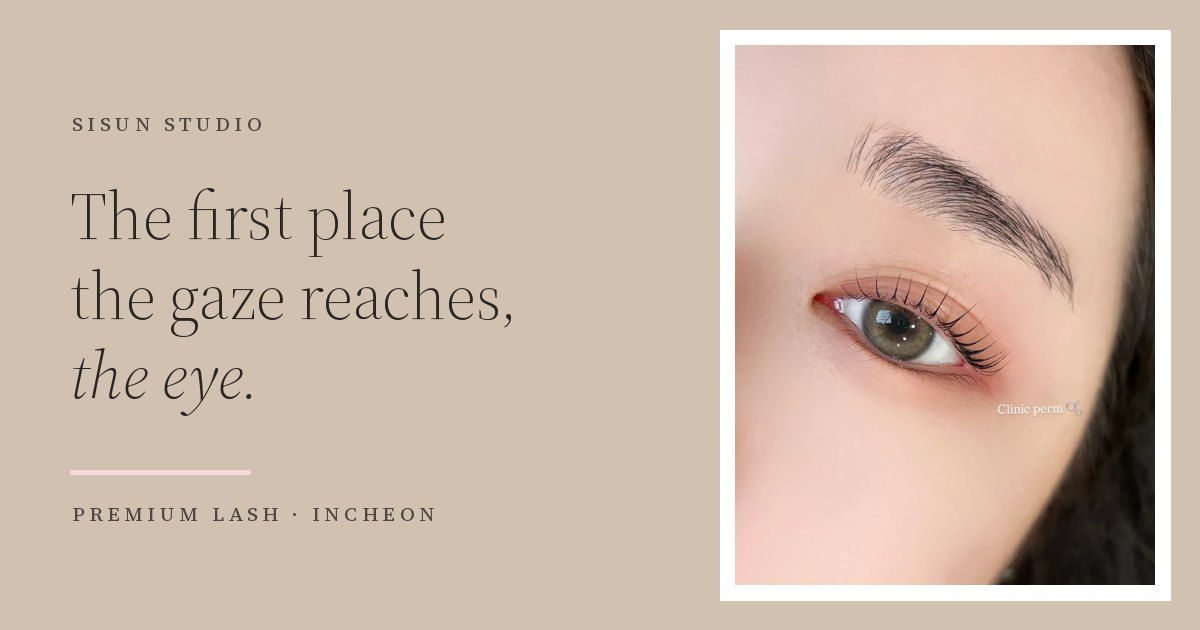
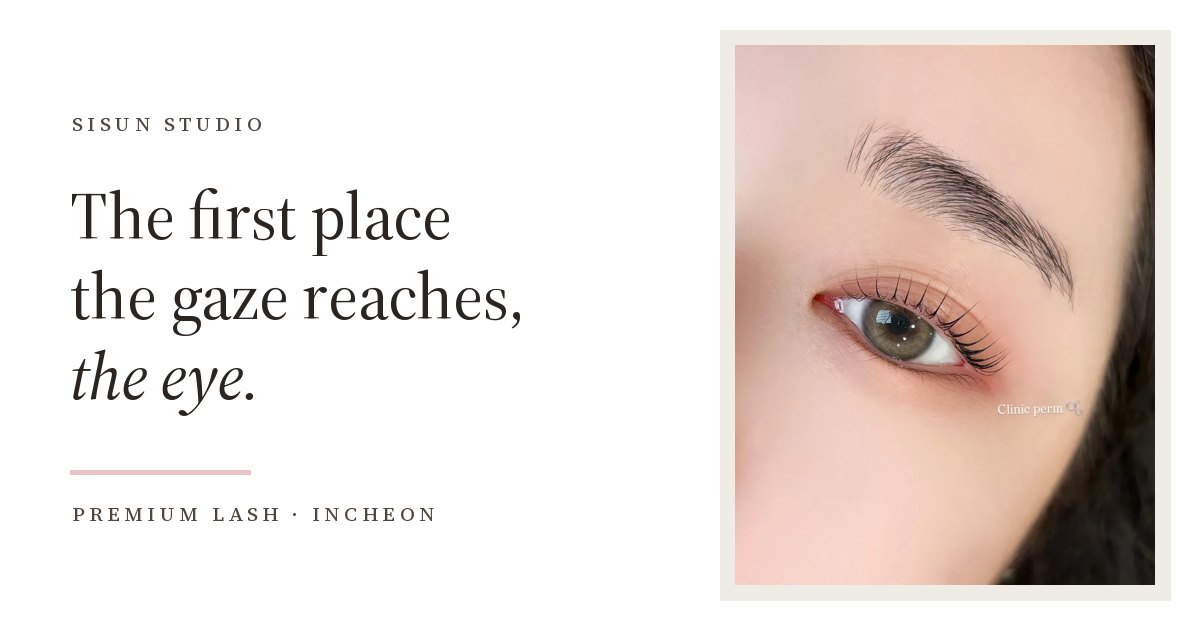
Add files via upload

diff --git a/index.html b/index.html
@@ -5,7 +5,7 @@
 <meta name="viewport" content="width=device-width, initial-scale=1.0" />
 <title>SISUN STUDIO 시선스튜디오 | Premium Lash Studio · 인천 구월동 속눈썹</title>
 <meta name="description" content="Premium lash studio in Guwol-dong, Incheon. 인천 구월동 속눈썹 전문 시선스튜디오. 눈매 맞춤 퍼스널 속눈썹연장·속눈썹펌·눈썹문신. 모근보호기법, KC 인증 글루, 프라이빗 시술룸." />
-<meta name="theme-color" content="#D1C1B1" />
+<meta name="theme-color" content="#FFFFFF" />
 
 <link rel="canonical" href="https://sisunstudio-sample.lgt3232.workers.dev/" />
 <meta property="og:type" content="website" />
@@ -60,7 +60,7 @@
    규칙 ① 그림자 없음, 1px 선과 여백 ② 모서리 0 ③ 왼쪽 색 띠 박스 금지
    ============================================================ */
 :root{
-  --mist:#E6DFD5;         /* 기본 지면 */
+  --mist:#EFEBE5;         /* v0.3 연한 베이지 그레이 (흰 바탕에 섞는 면) */
   --sand:#D1C1B1;         /* 다올 지정 색 1 */
   --stone:#C8C2B2;        /* 다올 지정 색 2 */
   --white:#FFFFFF;
@@ -80,7 +80,7 @@
 html{ -webkit-text-size-adjust:100%; }
 html, body{ max-width:100%; overflow-x:hidden; }
 @supports (overflow:clip){ html, body{ overflow-x:clip; } }
-body{ margin:0; font-family:var(--ko); color:var(--ink); background:var(--mist); line-height:1.75; letter-spacing:-.005em; -webkit-font-smoothing:antialiased; word-break:keep-all; }
+body{ margin:0; font-family:var(--ko); color:var(--ink); background:var(--white); line-height:1.75; letter-spacing:-.005em; -webkit-font-smoothing:antialiased; word-break:keep-all; }
 body.lock{ overflow:hidden; }
 img{ max-width:100%; height:auto; display:block; }
 a{ color:inherit; text-decoration:none; }
@@ -107,7 +107,7 @@ h1,h2,h3,h4{ margin:0; font-weight:400; }
 /* ---------- 버튼 ---------- */
 .btn{ display:inline-flex; align-items:center; justify-content:center; gap:10px; padding:1em 1.6em; font-family:var(--serif); font-weight:500; font-size:.76rem; letter-spacing:.24em; text-transform:uppercase; border:1px solid var(--ink); background:transparent; cursor:pointer; transition:background .25s ease, color .25s ease, border-color .25s ease; }
 .btn small{ font-family:var(--ko); font-size:.8rem; letter-spacing:0; text-transform:none; font-weight:500; }
-.btn.dark{ background:var(--ink); color:var(--mist); }
+.btn.dark{ background:var(--ink); color:var(--white); }
 .btn.white{ background:var(--white); border-color:var(--white); }
 .btn.pink{ background:var(--pink); border-color:var(--pink); }
 @media (hover:hover){
@@ -117,7 +117,7 @@ h1,h2,h3,h4{ margin:0; font-weight:400; }
 .btns{ display:flex; flex-wrap:wrap; gap:10px; }
 
 /* ---------- 헤더 ---------- */
-.site-head{ position:sticky; top:0; z-index:50; background:rgba(230,223,213,.94); border-bottom:1px solid var(--line); }
+.site-head{ position:sticky; top:0; z-index:50; background:rgba(255,255,255,.94); border-bottom:1px solid var(--line); }
 .site-head .wrap{ display:flex; align-items:center; justify-content:space-between; gap:14px; height:68px; }
 .mark{ font-family:var(--disp); font-weight:500; font-size:1.05rem; letter-spacing:.42em; }
 .nav{ display:flex; align-items:center; gap:clamp(16px,2.4vw,32px); }
@@ -135,7 +135,7 @@ h1,h2,h3,h4{ margin:0; font-weight:400; }
 .hero .ko-line{ margin:22px 0 0; font-size:1.02rem; font-weight:500; }
 .hero .lead{ margin:10px 0 0; max-width:32em; color:var(--soft); font-size:.96rem; }
 .hero .btns{ margin-top:30px; }
-.frame{ position:relative; background:var(--white); padding:14px 14px 54px; }
+.frame{ position:relative; background:var(--mist); padding:14px 14px 54px; }
 .frame .ph{ overflow:hidden; aspect-ratio:4/5; background:var(--sand); }
 .frame .ph img{ width:100%; height:100%; object-fit:cover; transform:scale(1.06); transition:transform 2.4s cubic-bezier(.2,.6,.2,1); }
 .frame.in .ph img{ transform:scale(1); }
@@ -148,6 +148,7 @@ h1,h2,h3,h4{ margin:0; font-weight:400; }
 .sec.sand{ background:var(--sand); }
 .sec.stone{ background:var(--stone); }
 .sec.white{ background:var(--white); }
+.sec.mist{ background:var(--mist); }
 .head{ display:grid; gap:14px; margin-bottom:clamp(36px,5vw,64px); }
 .head .caps{ color:var(--soft); }
 .head h2{ font-family:var(--disp); font-weight:450; font-size:clamp(2.3rem,6vw,4.2rem); line-height:1.05; letter-spacing:-.015em; }
@@ -161,6 +162,7 @@ h1,h2,h3,h4{ margin:0; font-weight:400; }
 .manifesto blockquote small{ display:block; margin-top:18px; font-family:var(--ko); font-size:.92rem; color:var(--soft); line-height:1.8; }
 .trio{ display:flex; gap:clamp(18px,4vw,48px); margin-top:30px; flex-wrap:wrap; }
 .trio span{ font-family:var(--disp); font-style:italic; font-size:1.25rem; border-bottom:1px solid var(--pink-2); padding-bottom:2px; }
+.trio .ko-s{ font-style:normal; }   /* 한글 가짜 이탤릭 방지 */
 .vows{ list-style:none; margin:0; padding:0; border-top:1px solid var(--line); }
 .vows li{ display:grid; grid-template-columns:52px 1fr; padding:18px 0; border-bottom:1px solid var(--line); }
 .vows .n{ font-family:var(--disp); font-style:italic; font-size:1.1rem; color:var(--soft); }
@@ -169,7 +171,8 @@ h1,h2,h3,h4{ margin:0; font-weight:400; }
 
 /* ---------- 메뉴 (가격) ---------- */
 .menu{ display:grid; gap:clamp(40px,6vw,80px); }
-.list{ background:var(--white); padding:clamp(22px,3.6vw,38px); }
+.list{ background:var(--mist); padding:clamp(22px,3.6vw,38px); }
+#brow .list{ background:var(--white); }
 .list h3{ display:flex; justify-content:space-between; align-items:baseline; gap:12px; padding-bottom:14px; border-bottom:1px solid var(--pink-2); font-family:var(--disp); font-weight:450; font-size:clamp(1.6rem,3.4vw,2.2rem); }
 .list h3 .caps{ font-family:var(--ko); font-size:.8rem; letter-spacing:.06em; color:var(--soft); }   /* 한글 라벨은 넓은 자간 X */
 .list dl{ margin:0; }
@@ -201,7 +204,7 @@ h1,h2,h3,h4{ margin:0; font-weight:400; }
 .shot.hide{ display:none; }
 @media (hover:hover){ .shot:hover img{ transform:scale(1.04); } }
 .more{ display:flex; justify-content:center; gap:10px; flex-wrap:wrap; margin-top:34px; }
-.lb{ position:fixed; inset:0; z-index:100; background:rgba(230,223,213,.97); display:none; align-items:center; justify-content:center; padding:60px 14px 70px; }
+.lb{ position:fixed; inset:0; z-index:100; background:rgba(255,255,255,.97); display:none; align-items:center; justify-content:center; padding:60px 14px 70px; }
 .lb.open{ display:flex; }
 .lb img{ max-height:100%; max-width:min(100%,760px); width:auto; object-fit:contain; }
 .lb .cap{ position:absolute; left:0; right:0; bottom:22px; text-align:center; }
@@ -246,11 +249,11 @@ h1,h2,h3,h4{ margin:0; font-weight:400; }
 @media (hover:hover){ .links a:hover{ background:var(--pink); } }
 
 /* ---------- 푸터 ---------- */
-.foot{ background:var(--ink); color:#D8CFC4; padding:56px 0 60px; font-size:.84rem; }
+.foot{ background:var(--stone); color:var(--ink); padding:56px 0 60px; font-size:.84rem; border-top:1px solid var(--pink-2); }
 .foot .wrap{ display:grid; gap:24px; }
-.foot .mark{ color:var(--white); font-size:1.2rem; }
+.foot .mark{ font-size:1.2rem; }
 .foot p{ margin:0 0 6px; }
-.foot a{ text-decoration:underline; text-decoration-color:rgba(255,255,255,.3); text-underline-offset:3px; }
+.foot a{ text-decoration:underline; text-decoration-color:var(--pink-2); text-underline-offset:3px; }
 
 /* ---------- 리빌 ---------- */
 .reveal{ opacity:0; transform:translateY(18px); transition:opacity 1s ease, transform 1s ease; }
@@ -309,7 +312,7 @@ h1,h2,h3,h4{ margin:0; font-weight:400; }
         <div class="btns">
           <a class="btn dark" href="https://naver.me/xGIjHwsW" target="_blank" rel="noopener">Reserve <small>네이버 예약</small></a>
           <a class="btn pink" href="http://pf.kakao.com/_ZLjTn" target="_blank" rel="noopener">Kakao <small>상담·문의</small></a>
-          <a class="btn white" href="https://www.instagram.com/sisun.studio_/" target="_blank" rel="noopener">Instagram <small>인스타그램</small></a>
+          <a class="btn line" href="https://www.instagram.com/sisun.studio_/" target="_blank" rel="noopener">Instagram <small>인스타그램</small></a>
         </div>
       </div>
       <figure class="frame reveal" style="margin:0">
@@ -320,10 +323,10 @@ h1,h2,h3,h4{ margin:0; font-weight:400; }
     </div>
   </section>
 
-  <section class="sec white haze" id="philosophy" aria-labelledby="philo-h">
+  <section class="sec mist haze" id="philosophy" aria-labelledby="philo-h">
     <div class="wrap manifesto">
       <div class="reveal">
-        <p class="caps" style="margin:0 0 18px;color:var(--soft)">Philosophy · 시선의 철학</p>
+        <p class="caps" style="margin:0 0 18px;color:var(--soft)">Philosophy<span class="ko-t">시선의 철학</span></p>
         <blockquote id="philo-h">“Everyone’s eyes are different. Find the harmonious lashes that work best for you. Beautiful, and truly you.”<small>사람마다 눈매는 모두 달라요. 한 분 한 분 꼼꼼한 상담으로, 유행만 따라가는 공장형 속눈썹이 아닌 가장 잘 어울리는 속눈썹을 찾아드립니다.</small></blockquote>
         <div class="trio"><span>Personal <small class="ko-s">퍼스널</small></span><span>Harmony <small class="ko-s">조화</small></span><span>Naturalness <small class="ko-s">자연스러움</small></span></div>
       </div>
@@ -337,10 +340,10 @@ h1,h2,h3,h4{ margin:0; font-weight:400; }
     </div>
   </section>
 
-  <section class="sec sand" id="lash" aria-labelledby="lash-h">
+  <section class="sec white" id="lash" aria-labelledby="lash-h">
     <div class="wrap">
       <div class="head reveal">
-        <p class="caps" style="margin:0">Lash Menu · 속눈썹 메뉴</p>
+        <p class="caps" style="margin:0">Lash Menu<span class="ko-t">속눈썹 메뉴</span></p>
         <h2 id="lash-h">Extensions <em>&amp;</em> perms.<span class="ko-t">속눈썹 연장 &amp; 펌</span></h2>
         <p>Comfortable, light lashes. Quality, comfort and lasting hold.<span class="ko-t">편안하고 가벼운 속눈썹. 퀄리티 · 눈편함 · 유지력</span></p>
       </div>
@@ -388,7 +391,7 @@ h1,h2,h3,h4{ margin:0; font-weight:400; }
       <figure class="reveal"><span class="tag">Brow · PMU</span><img loading="lazy" src="ss-mood.webp" alt="흰 장미 꽃다발과 화병" width="900" height="1125" /></figure>
       <div>
         <div class="head reveal" style="margin-bottom:32px">
-          <p class="caps" style="margin:0">Brow · PMU · 눈썹 반영구</p>
+          <p class="caps" style="margin:0">Brow · PMU<span class="ko-t">눈썹 반영구</span></p>
           <h2 id="brow-h">Brows, <em>by your face.</em><span class="ko-t">얼굴 윤곽에 맞춘 눈썹</span></h2>
           <p>Contour-analyzed brow tattoo, designed around the shape of your face.<span class="ko-t">얼굴 윤곽을 분석해 디자인하는 눈썹문신 · 잔흔제거 · 헤어라인</span></p>
         </div>
@@ -413,7 +416,7 @@ h1,h2,h3,h4{ margin:0; font-weight:400; }
   <section class="sec white haze" id="gallery" aria-labelledby="gallery-h">
     <div class="wrap">
       <div class="head center reveal">
-        <p class="caps" style="margin:0">Gallery · 갤러리</p>
+        <p class="caps" style="margin:0">Gallery<span class="ko-t">갤러리</span></p>
         <h2 id="gallery-h">Lashes that look <em>like you.</em><span class="ko-t">나에게 가장 잘 어울리는 속눈썹</span></h2>
         <p>사진을 누르면 크게 볼 수 있어요.</p>
       </div>
@@ -466,10 +469,10 @@ h1,h2,h3,h4{ margin:0; font-weight:400; }
     <p class="cap caps"></p>
   </div>
 
-  <section class="sec sand" id="guide" aria-labelledby="guide-h">
+  <section class="sec mist" id="guide" aria-labelledby="guide-h">
     <div class="wrap two">
       <div class="head reveal">
-        <p class="caps" style="margin:0">Before your visit · 방문 전 안내</p>
+        <p class="caps" style="margin:0">Before your visit<span class="ko-t">방문 전 안내</span></p>
         <h2 id="guide-h">Good to <em>know.</em><span class="ko-t">알아두시면 좋아요</span></h2>
         <p>예약 전에 한 번 읽어주세요.</p>
       </div>
